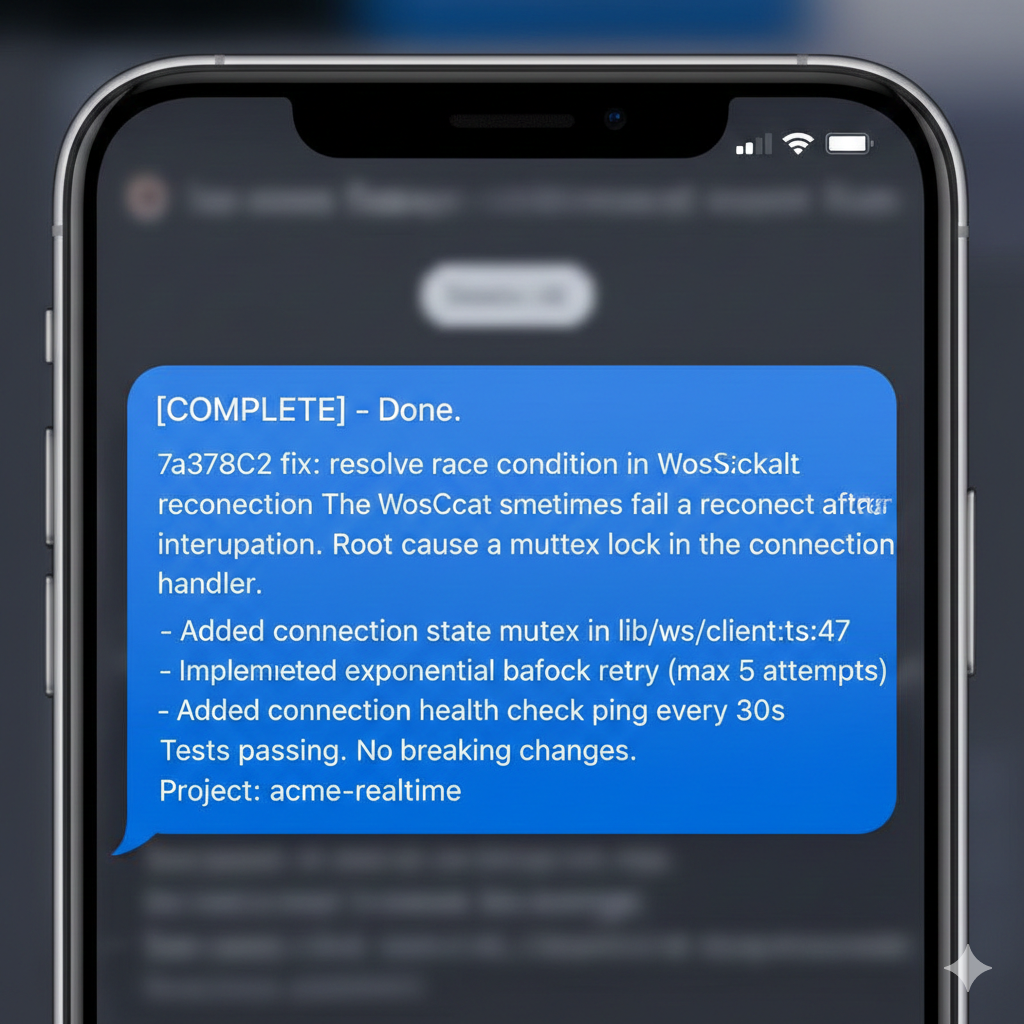
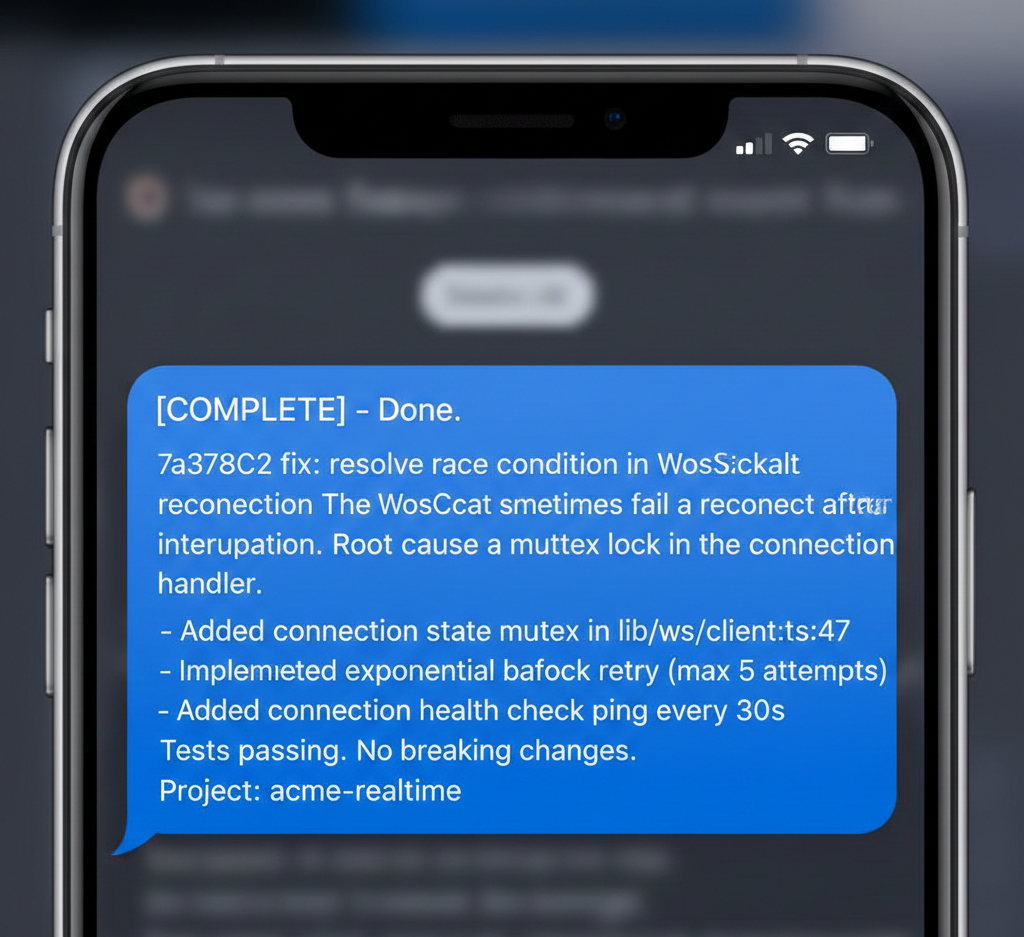
docs: update notification screenshot

diff --git a/cmd/claudible/main.go b/cmd/claudible/main.go
@@ -23,7 +23,7 @@ import (
 
 const (
 	// Version is the current version of Claudible.
-	Version = "0.5.3"
+	Version = "0.5.4"
 
 	// DefaultTimeout is the default context timeout for processing.
 	DefaultTimeout = 30 * time.Second
